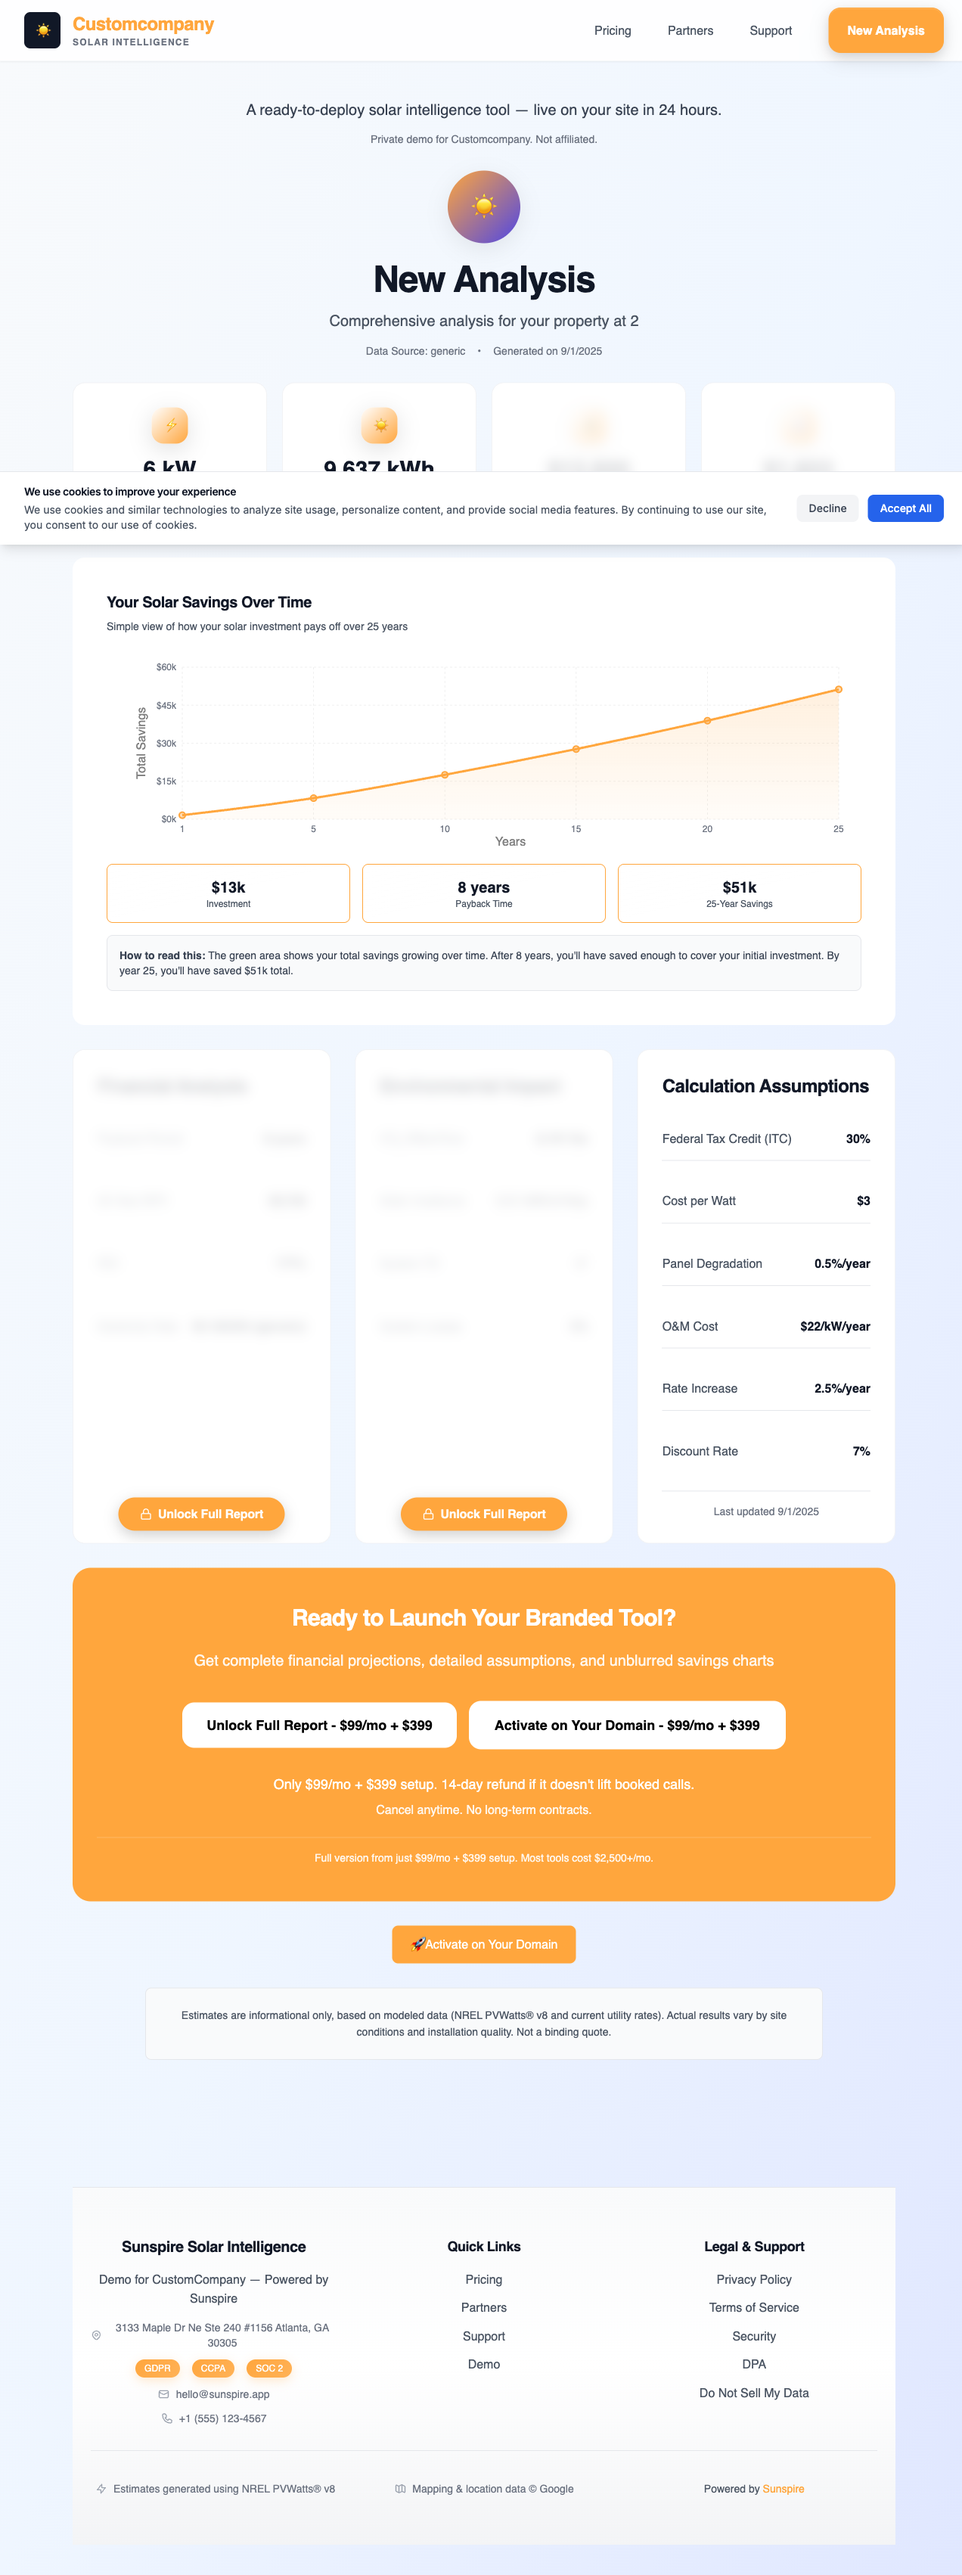
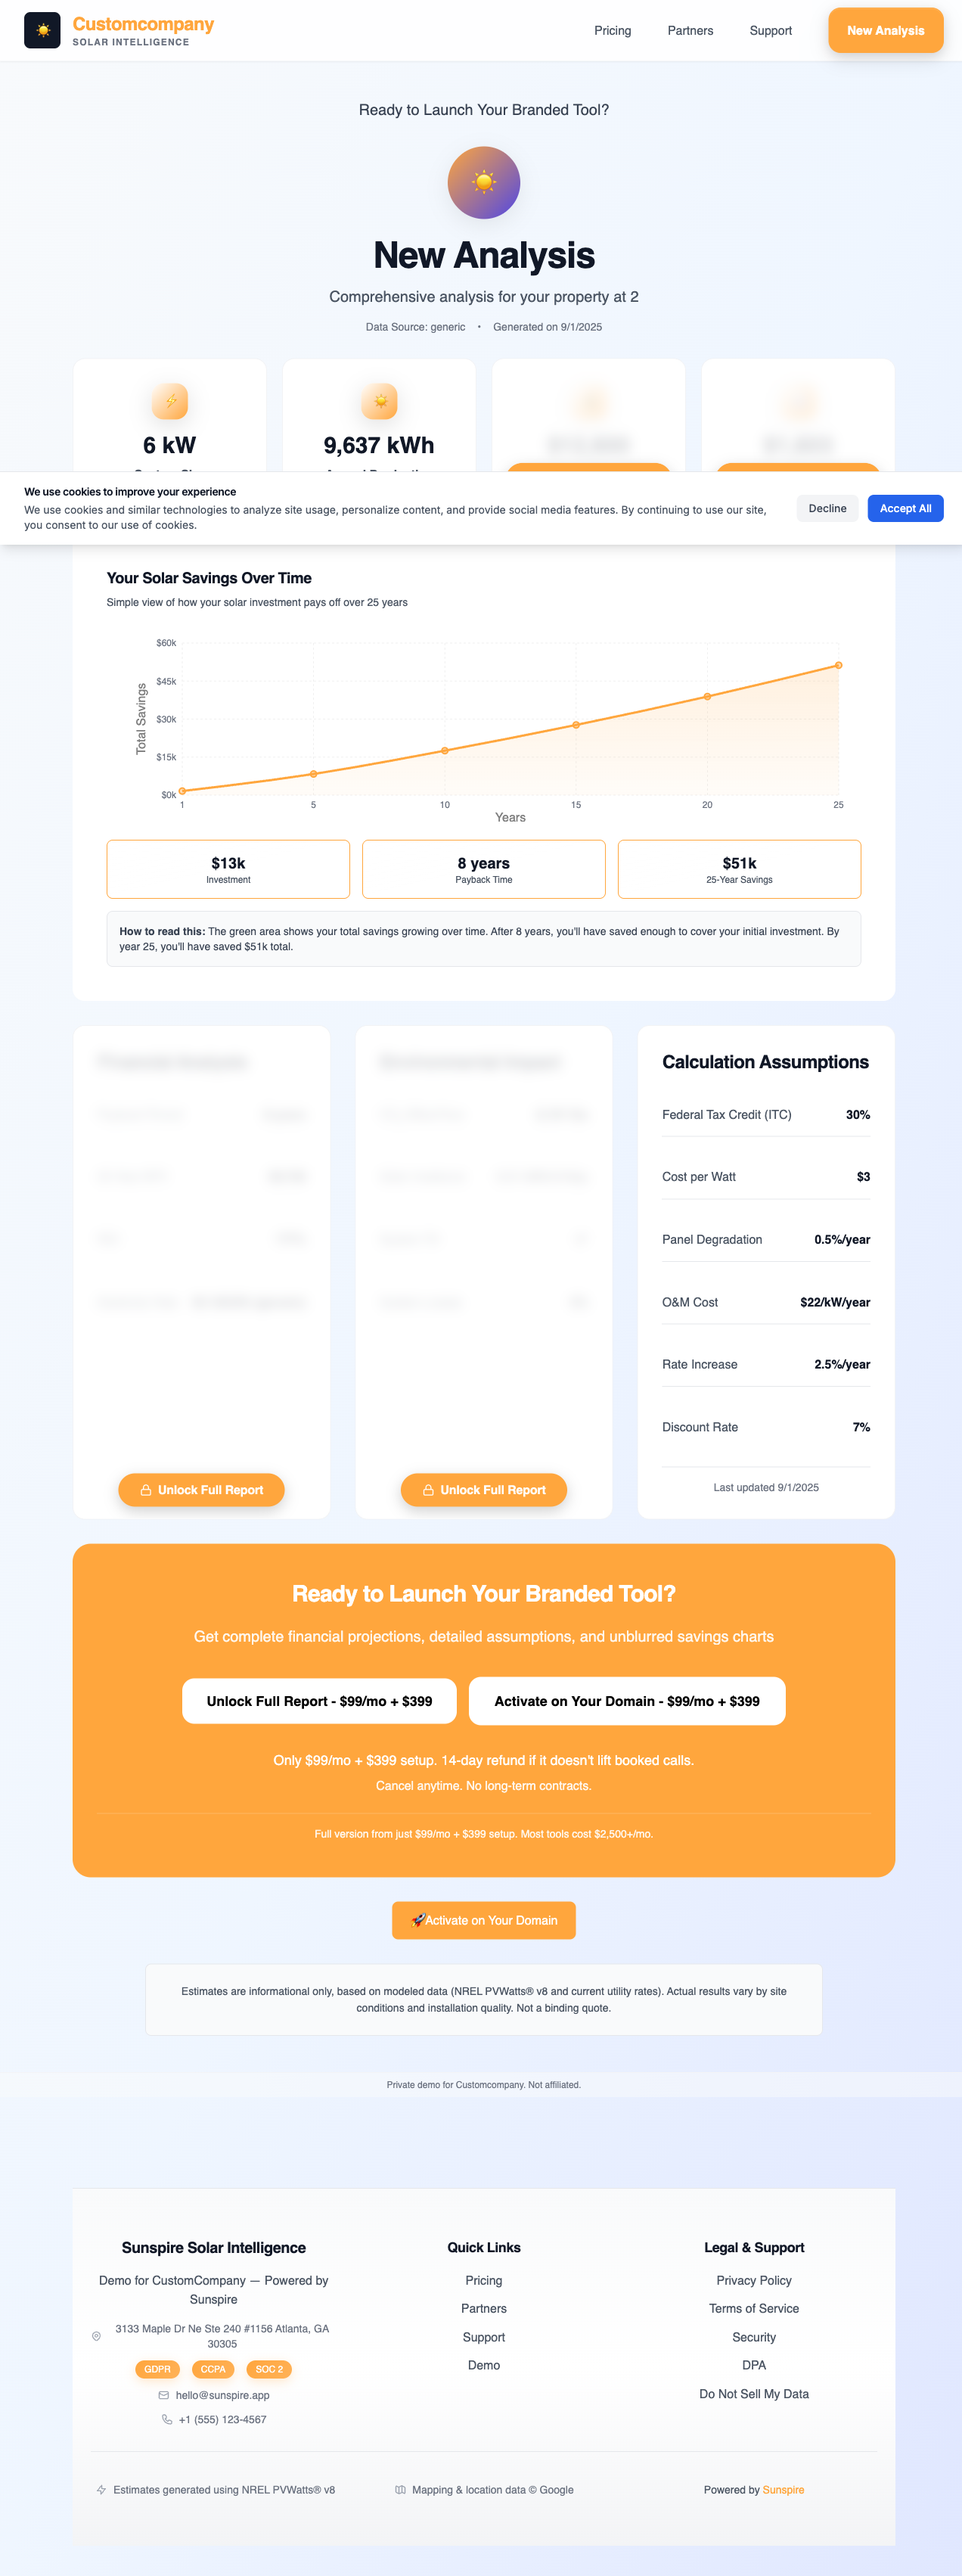
Move disclaimer text under header on report page to match other pages

diff --git a/tests/verify-disclaimer-under-header.spec.ts b/tests/verify-disclaimer-under-header.spec.ts
@@ -1,0 +1,60 @@
+import { test, expect } from '@playwright/test';
+
+test('Verify disclaimer text appears under header on report page', async ({ page }) => {
+  console.log('🔍 Verifying disclaimer text under header on report page...');
+  
+  // Test with Tesla
+  console.log('\n🚗 Testing Tesla...');
+  await page.goto('https://sunspire-web-app.vercel.app/report?address=2&lat=40.7128&lng=-74.0060&placeId=demo&company=Tesla&demo=1');
+  await page.waitForLoadState('networkidle');
+  await page.waitForTimeout(2000);
+  
+  // Check that the disclaimer text appears under the header (right after header, before main content)
+  const disclaimerUnderHeader = page.locator('div.border-t.border-gray-100.bg-gray-50\\/50 p:has-text("Private demo for Tesla. Not affiliated.")');
+  await expect(disclaimerUnderHeader).toBeVisible();
+  console.log('✅ Disclaimer text "Private demo for Tesla. Not affiliated." appears under header');
+  
+  // Verify it's positioned correctly (after header, before main content)
+  const header = page.locator('header');
+  const main = page.locator('main[data-testid="report-page"]');
+  const disclaimer = page.locator('div.border-t.border-gray-100.bg-gray-50\\/50');
+  
+  // Check that disclaimer comes after header
+  const headerBox = await header.boundingBox();
+  const disclaimerBox = await disclaimer.boundingBox();
+  const mainBox = await main.boundingBox();
+  
+  if (headerBox && disclaimerBox && mainBox) {
+    expect(disclaimerBox.y).toBeGreaterThan(headerBox.y + headerBox.height);
+    expect(mainBox.y).toBeGreaterThan(disclaimerBox.y + disclaimerBox.height);
+    console.log('✅ Disclaimer is positioned correctly: after header, before main content');
+  }
+  
+  // Test with Apple
+  console.log('\n🍎 Testing Apple...');
+  await page.goto('https://sunspire-web-app.vercel.app/report?address=2&lat=40.7128&lng=-74.0060&placeId=demo&company=Apple&demo=1');
+  await page.waitForLoadState('networkidle');
+  await page.waitForTimeout(2000);
+  
+  const appleDisclaimer = page.locator('div.border-t.border-gray-100.bg-gray-50\\/50 p:has-text("Private demo for Apple. Not affiliated.")');
+  await expect(appleDisclaimer).toBeVisible();
+  console.log('✅ Disclaimer text "Private demo for Apple. Not affiliated." appears under header for Apple');
+  
+  // Test with Amazon
+  console.log('\n📦 Testing Amazon...');
+  await page.goto('https://sunspire-web-app.vercel.app/report?address=2&lat=40.7128&lng=-74.0060&placeId=demo&company=Amazon&demo=1');
+  await page.waitForLoadState('networkidle');
+  await page.waitForTimeout(2000);
+  
+  const amazonDisclaimer = page.locator('div.border-t.border-gray-100.bg-gray-50\\/50 p:has-text("Private demo for Amazon. Not affiliated.")');
+  await expect(amazonDisclaimer).toBeVisible();
+  console.log('✅ Disclaimer text "Private demo for Amazon. Not affiliated." appears under header for Amazon');
+  
+  // Take a screenshot for visual verification
+  await page.screenshot({ path: 'disclaimer-under-header-verification.png', fullPage: true });
+  
+  console.log('\n🎉 All disclaimer positioning tests passed!');
+  console.log('✅ Disclaimer text appears under header on report page');
+  console.log('✅ Positioned correctly: after header, before main content');
+  console.log('✅ Works dynamically for different companies!');
+});

diff --git a/tests/debug-report-page-content.spec.ts b/tests/debug-report-page-content.spec.ts
@@ -1,0 +1,32 @@
+import { test, expect } from '@playwright/test';
+
+test('Debug report page content to see what text is actually there', async ({ page }) => {
+  console.log('🔍 Debugging report page content...');
+  
+  await page.goto('https://sunspire-web-app.vercel.app/report?address=2&lat=40.7128&lng=-74.0060&placeId=demo&company=Tesla&demo=1');
+  await page.waitForLoadState('networkidle');
+  await page.waitForTimeout(3000);
+  
+  // Get all text content on the page
+  const pageText = await page.textContent('body');
+  console.log('📄 Full page text:', pageText);
+  
+  // Check for specific text patterns
+  const readyToDeployText = await page.locator('p:has-text("ready-to-deploy")').count();
+  const readyToLaunchText = await page.locator('p:has-text("Ready to Launch")').count();
+  const privateDemoText = await page.locator('text=Private demo for Tesla').count();
+  
+  console.log('🔍 Text counts:');
+  console.log('  - ready-to-deploy text count:', readyToDeployText);
+  console.log('  - Ready to Launch text count:', readyToLaunchText);
+  console.log('  - Private demo for Tesla text count:', privateDemoText);
+  
+  // Get all paragraph elements
+  const paragraphs = await page.locator('p').allTextContents();
+  console.log('📝 All paragraph texts:', paragraphs);
+  
+  // Take a screenshot
+  await page.screenshot({ path: 'debug-report-page-content.png', fullPage: true });
+  
+  console.log('✅ Debug complete! Check debug-report-page-content.png for visual verification');
+});

diff --git a/app/report/page.tsx b/app/report/page.tsx
@@ -450,6 +450,17 @@ function ReportContent() {
           </div>
         </div>
       </header>
+      
+      {/* Disclaimer Footer - Banner like other pages */}
+      {b.enabled && (
+        <div className="border-t border-gray-100 bg-gray-50/50">
+          <div className="max-w-7xl mx-auto px-4 sm:px-6 lg:px-8 py-2">
+            <p className="text-xs text-gray-500 text-center">
+              Private demo for {capitalizeCompanyName(b.brand)}. Not affiliated.
+            </p>
+          </div>
+        </div>
+      )}
 
       <main data-testid="report-page" className="max-w-6xl mx-auto px-4 sm:px-6 lg:px-8 py-12">
         {/* Ready-to text section - Exactly like c548b88 (no white box) */}
@@ -718,17 +729,6 @@ function ReportContent() {
           </motion.div>
         </motion.div>
       </main>
-      
-      {/* Disclaimer Footer - Banner like other pages */}
-      {b.enabled && (
-        <div className="border-t border-gray-100 bg-gray-50/50">
-          <div className="max-w-7xl mx-auto px-4 sm:px-6 lg:px-8 py-2">
-            <p className="text-xs text-gray-500 text-center">
-              Private demo for {capitalizeCompanyName(b.brand)}. Not affiliated.
-            </p>
-          </div>
-        </div>
-      )}
 
       <footer className="max-w-6xl mx-auto px-4 sm:px-6 lg:px-8 py-10">
         <LegalFooter brand={b.enabled ? b.brand : undefined} />
